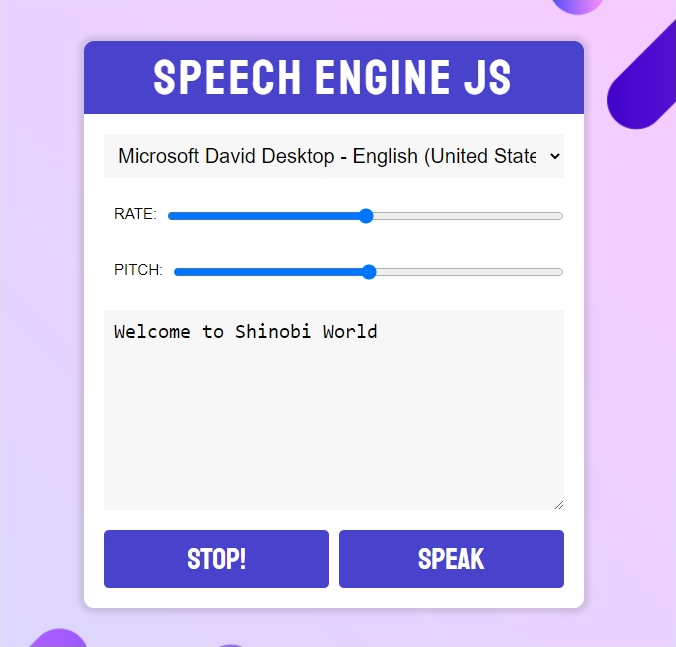
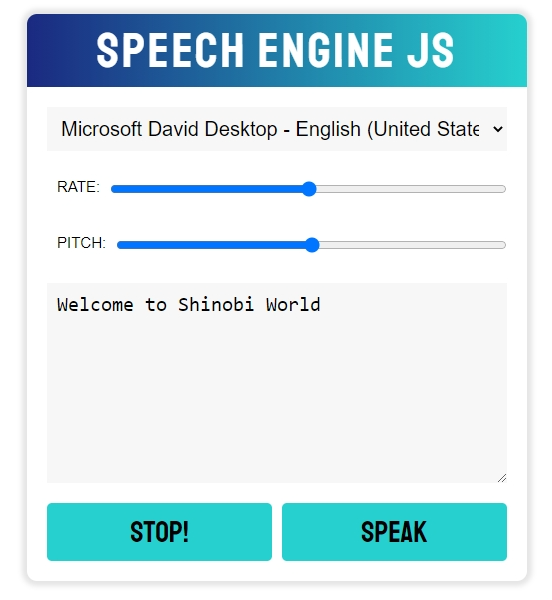
updated css and readme

diff --git a/Text-to-Speech/style.css b/Text-to-Speech/style.css
@@ -12,7 +12,7 @@ body {
   margin: 0;
   padding: 0;
   font-family: Arial, Helvetica, sans-serif;
-  background: url("img/background.jpg");
+  background: rgba(255, 255, 255, 0.13);
   display: flex;
   min-height: 100vh;
   align-items: center;
@@ -37,7 +37,7 @@ h1 {
   width: calc(100% + 4rem);
   margin: -2rem 0 2rem -2rem;
   padding: .5rem;
-  background: #3e37c9f1;
+  background: linear-gradient(90deg, #1A2980, #26D0CE);
   color: white;
   text-align: center;
   font-size: 5rem;
@@ -81,8 +81,8 @@ textarea {
 } */
 
 .speech-engine button {
-  background: #3e37c9f1;
-  color: white;
+  background: #26D0CE;
+  color: black;
   border: 0;
   border-radius: 5px;
   width: 49%;

diff --git a/README.md b/README.md
@@ -6,5 +6,3 @@
 * Option to choose from more than 15 voices
 * speechSynthesis used
 * JS-HTML-CSS
-
-![Interface](https://github.com/VinayakRB/Vanilla-JS-Projects/blob/%2314-Text-to-Speech-Output/Text-to-Speech/img/chrome-capture.jpg?raw=true)
